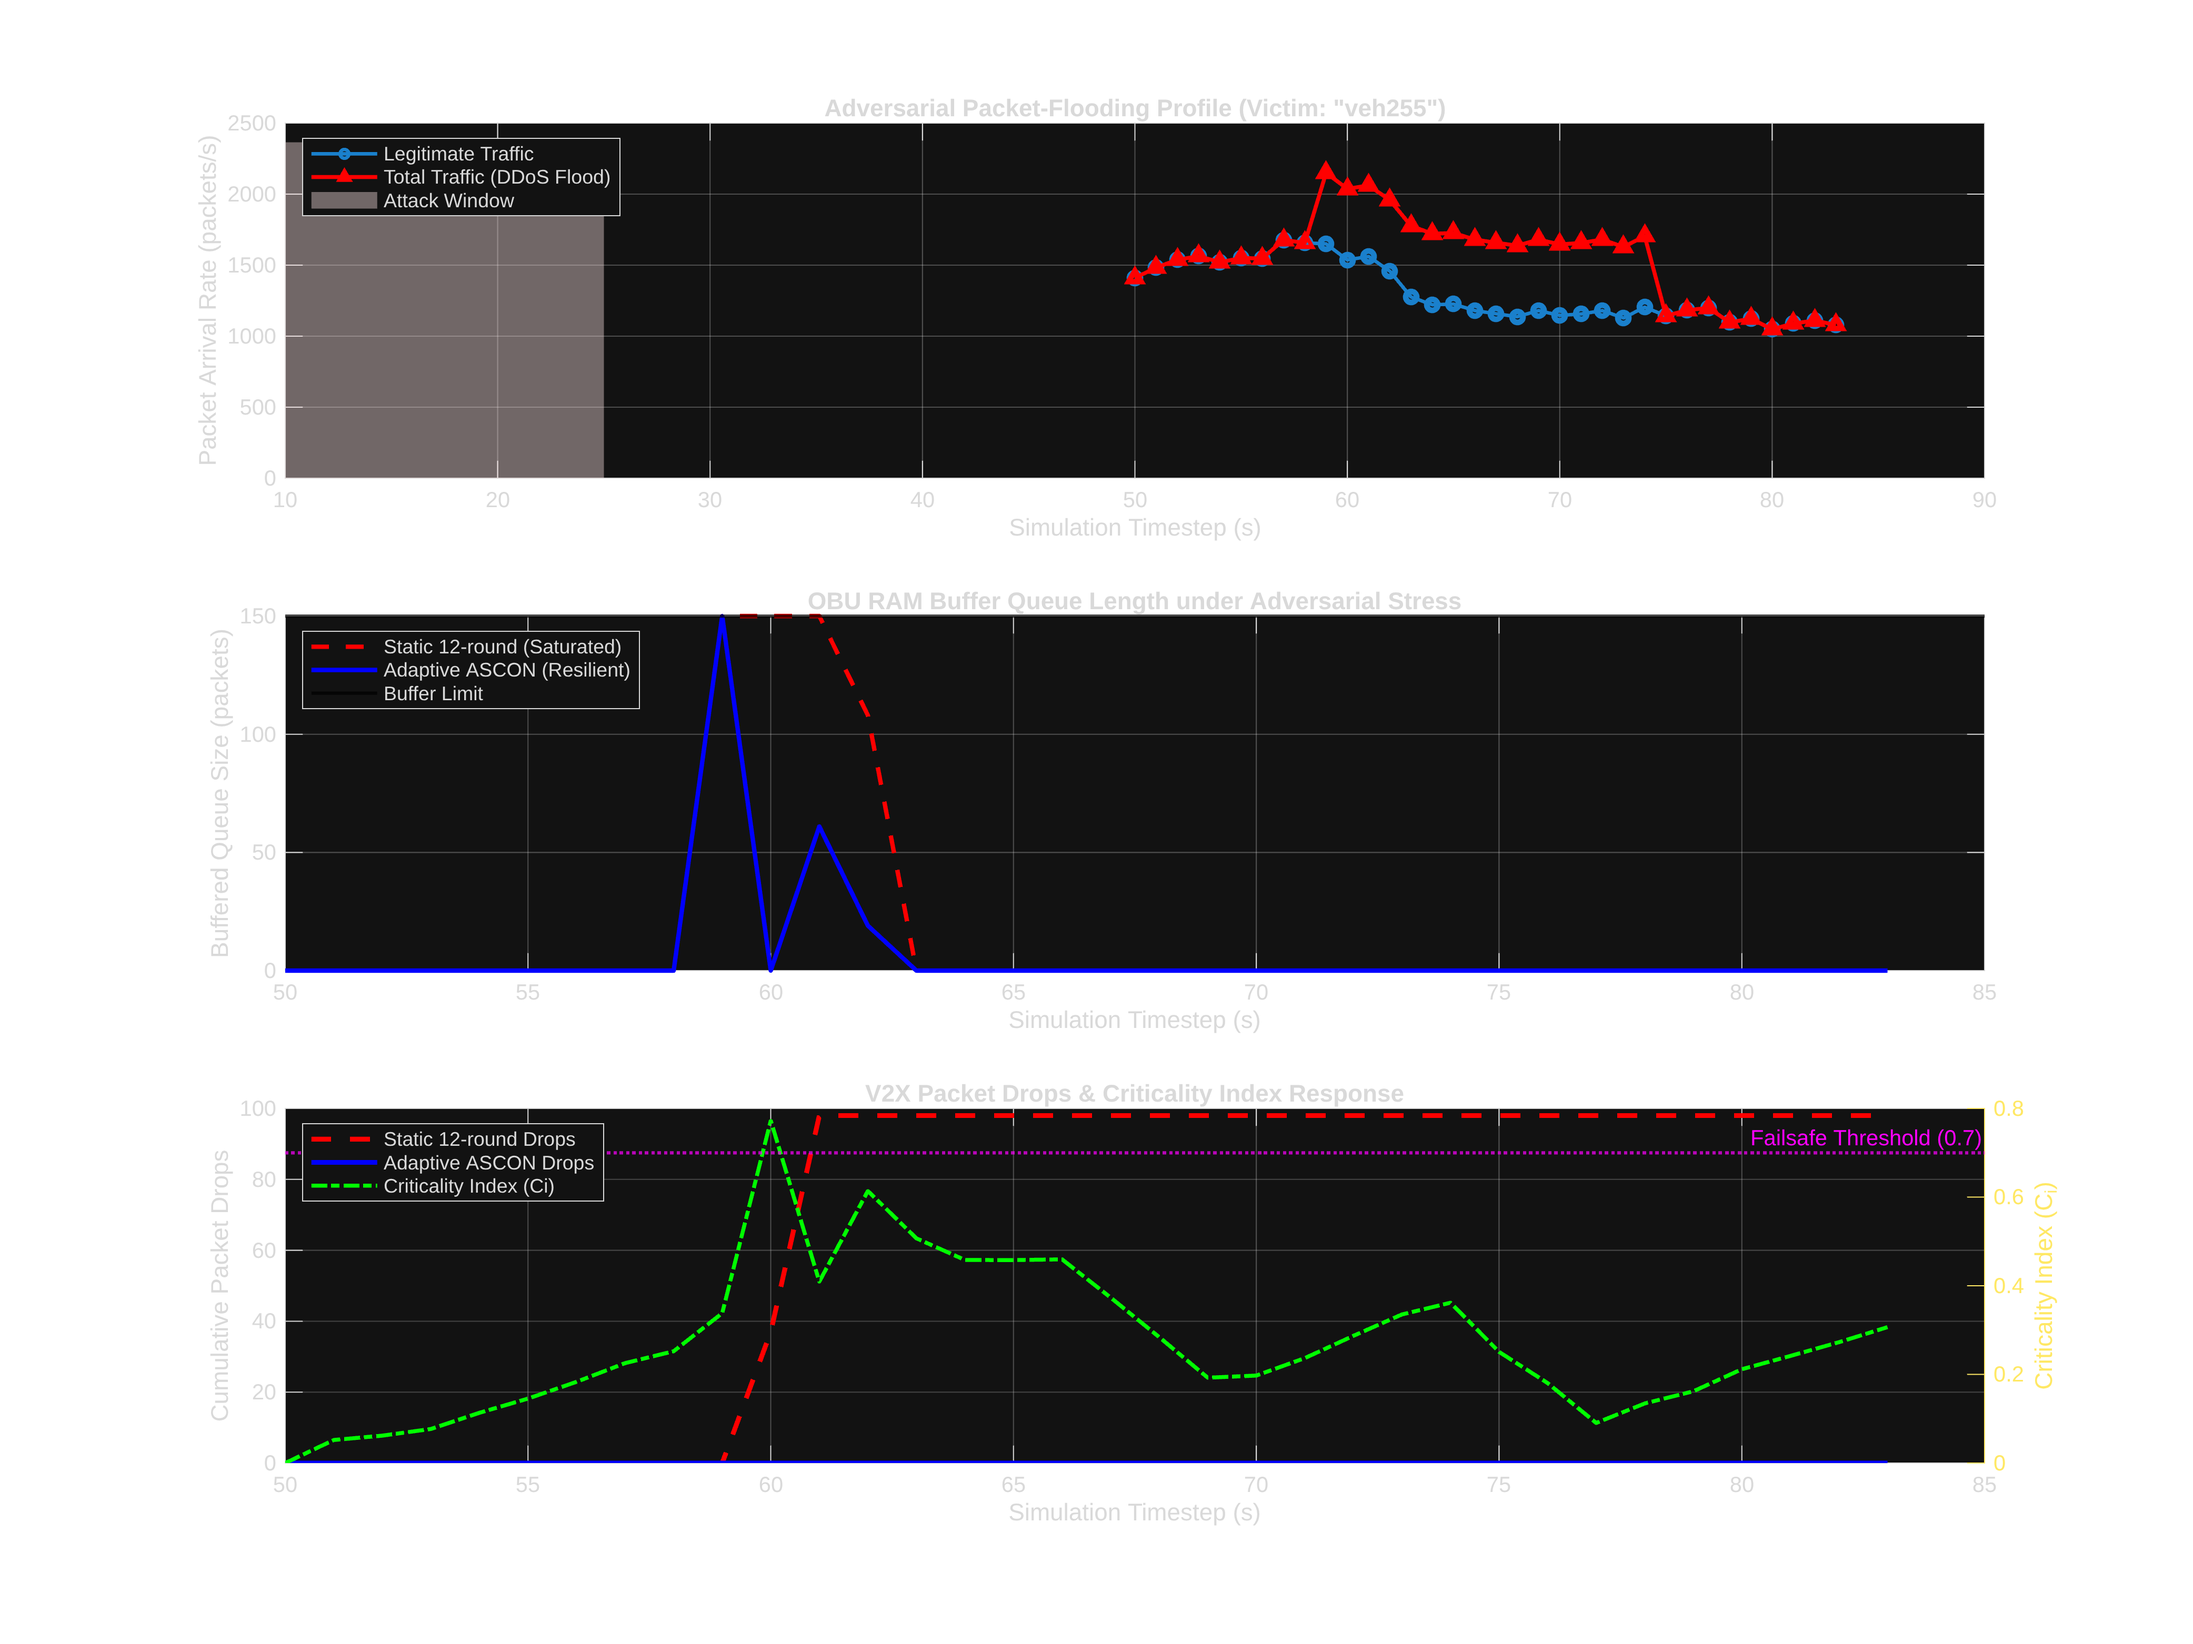
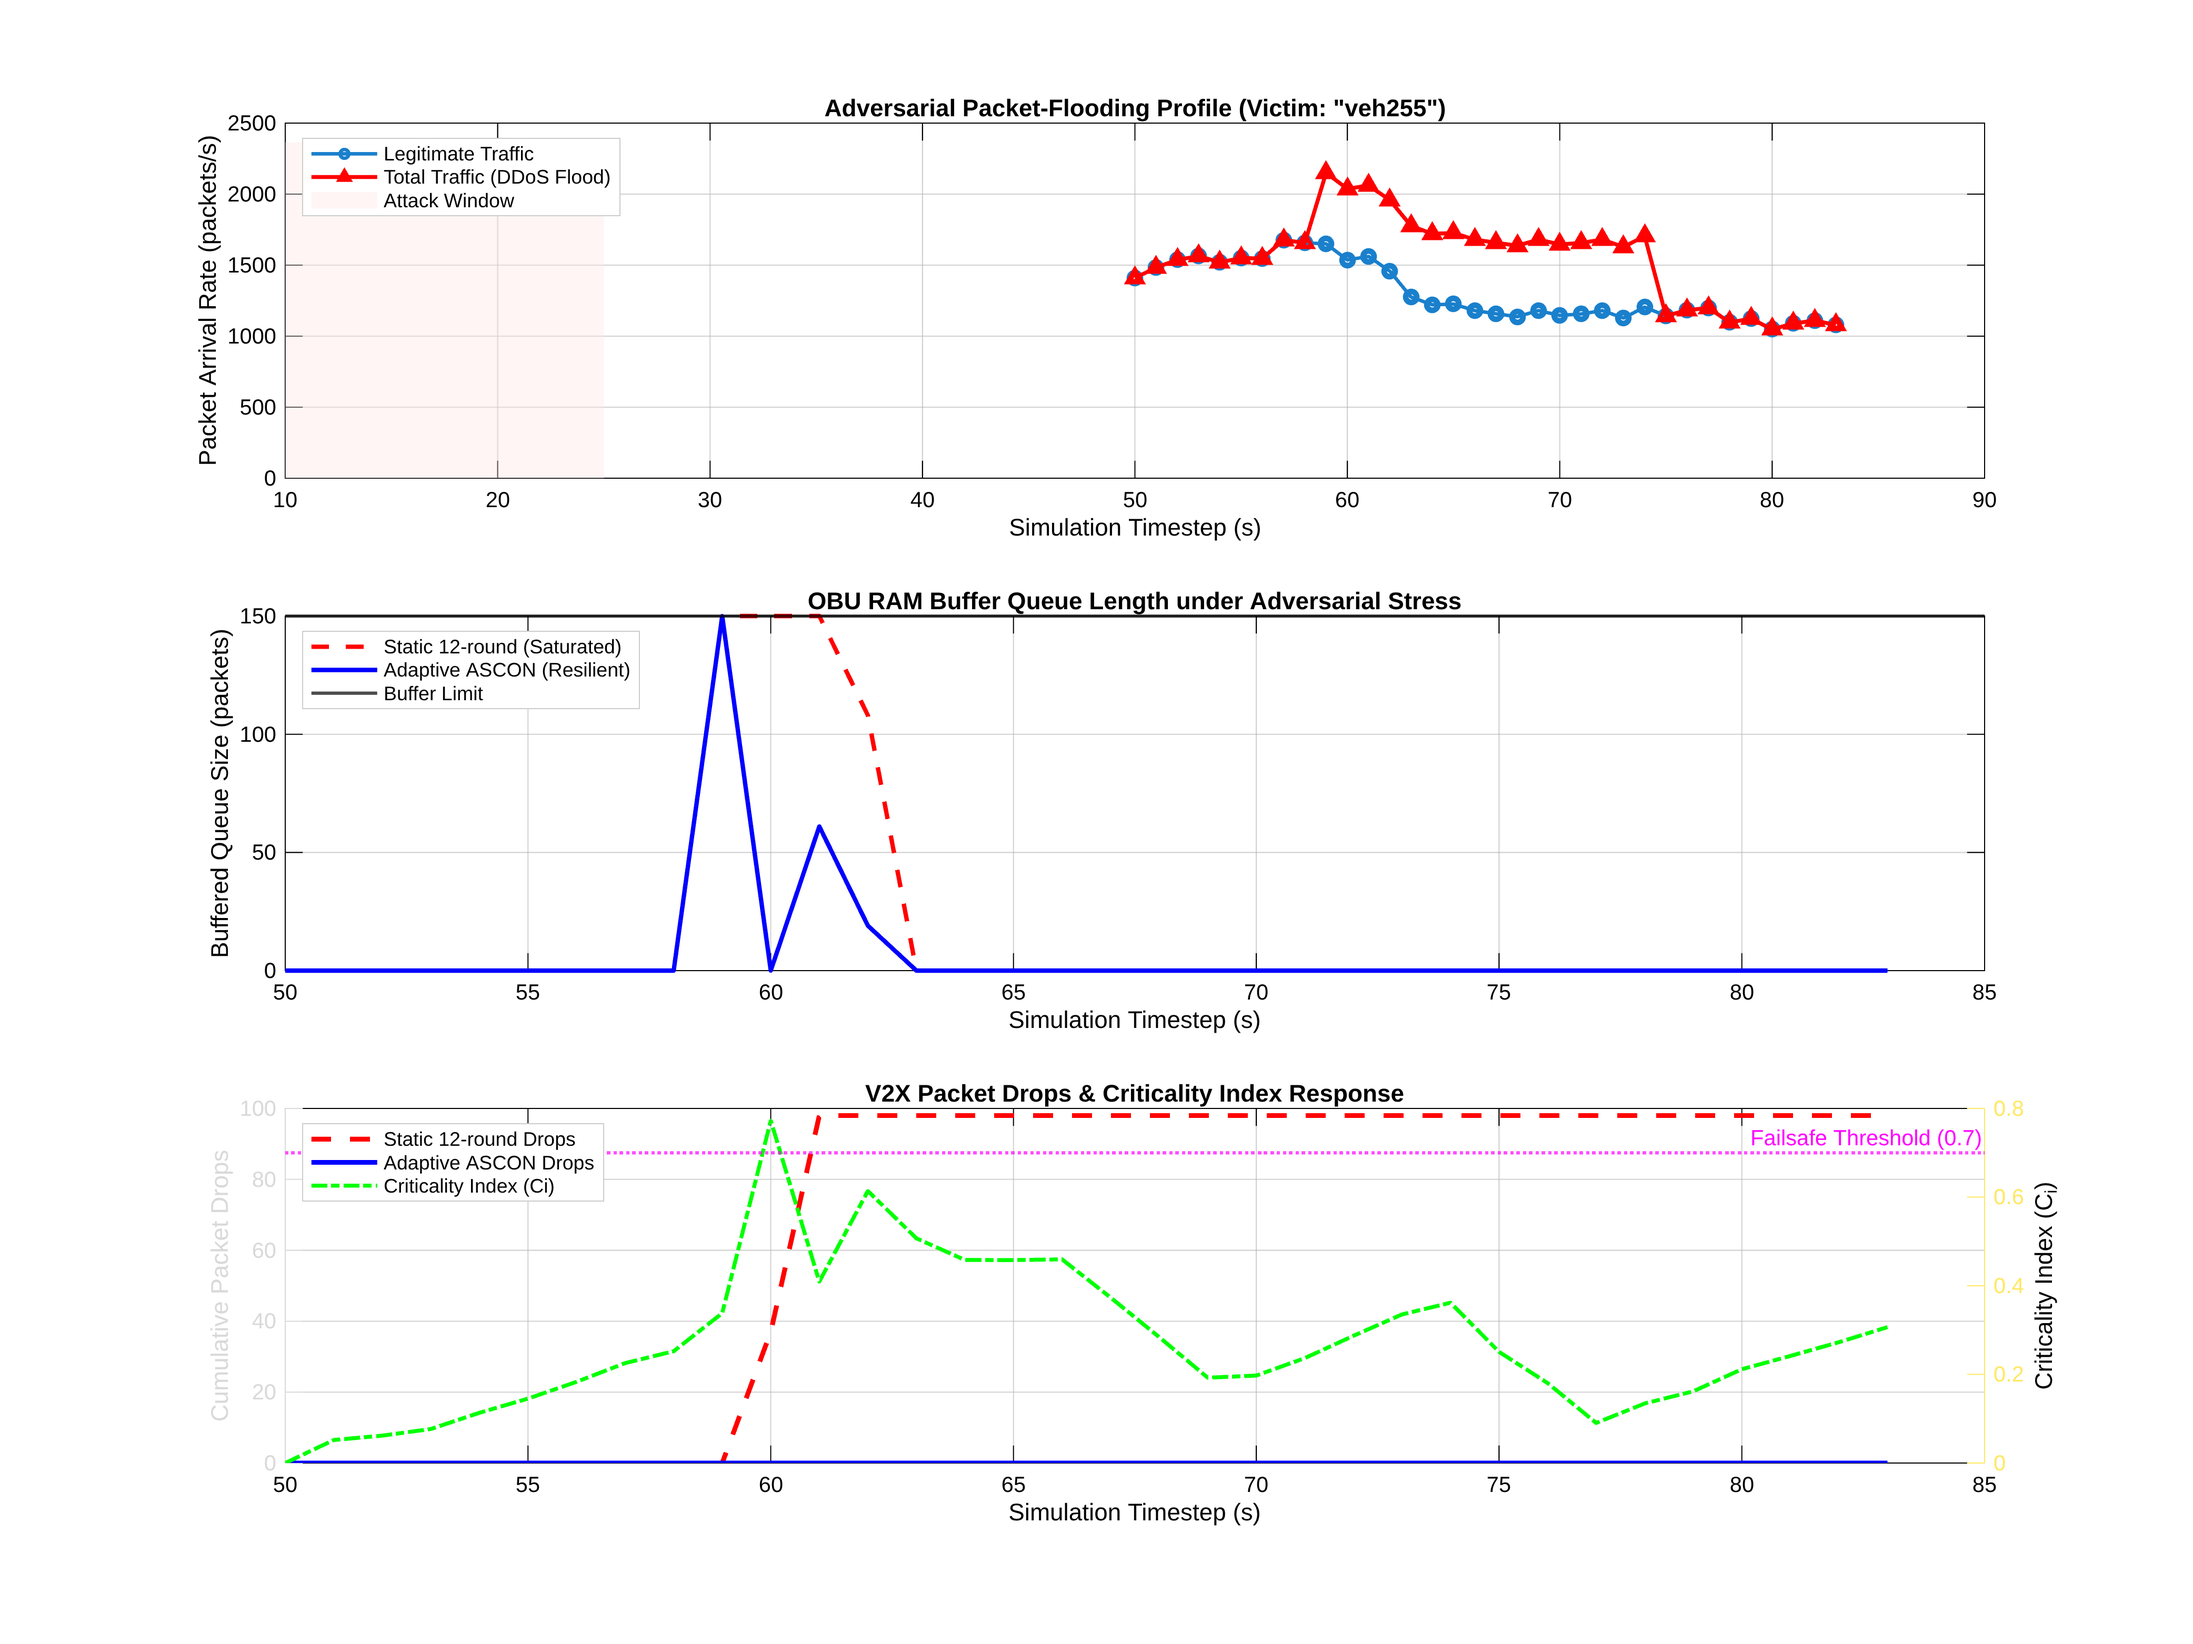
style: enforce solid white background on all axes and legends, using dark high-contrast fonts

diff --git a/scripts/simulate_queue_demo.m b/scripts/simulate_queue_demo.m
@@ -173,6 +173,7 @@ if ~exist(docs_dir, 'dir')
     mkdir(docs_dir);
 end
 fig_path = fullfile(docs_dir, 'obu_queue_comparison.png');
+apply_white_theme(fig);
 print(fig, fig_path, '-dpng', '-r300');
 fprintf('\nComparative visualization plot saved successfully to:\n%s\n', fig_path);
 
@@ -180,6 +181,55 @@ fprintf('\nComparative visualization plot saved successfully to:\n%s\n', fig_pat
 close(fig);
 
 % --- Helper Functions ---
+function apply_white_theme(fig)
+    set(fig, 'Color', 'w');
+    set(fig, 'InvertHardcopy', 'off');
+    
+    % Find all axes objects
+    ax_handles = findall(fig, 'type', 'axes');
+    for i = 1:length(ax_handles)
+        ax = ax_handles(i);
+        set(ax, 'Color', 'w');
+        set(ax, 'XColor', 'k');
+        
+        % Check YAxis color properties for yyaxis
+        if isprop(ax, 'YAxis') && length(ax.YAxis) >= 2
+            for y_idx = 1:length(ax.YAxis)
+                % Ensure colors have visible contrast on white background
+                if isequal(ax.YAxis(y_idx).Color, [1, 1, 1]) || sum(ax.YAxis(y_idx).Color) > 2.7
+                    ax.YAxis(y_idx).Color = 'k';
+                end
+            end
+        else
+            set(ax, 'YColor', 'k');
+        end
+        
+        % Force labels and titles to black
+        if ~isempty(ax.Title)
+            ax.Title.Color = 'k';
+        end
+        if ~isempty(ax.XLabel)
+            ax.XLabel.Color = 'k';
+        end
+        if ~isempty(ax.YLabel)
+            ax.YLabel.Color = 'k';
+        end
+        
+        % Force grid color to light grey
+        set(ax, 'GridColor', [0.7, 0.7, 0.7]);
+        set(ax, 'GridAlpha', 0.6);
+    end
+    
+    % Find all legend objects
+    leg_handles = findall(fig, 'type', 'legend');
+    for i = 1:length(leg_handles)
+        leg = leg_handles(i);
+        set(leg, 'Color', 'w');
+        set(leg, 'TextColor', 'k');
+        set(leg, 'EdgeColor', [0.8, 0.8, 0.8]);
+    end
+end
+
 function k = poisson_rnd(lambda)
     % POISSON_RND Generates Poisson random variable without Statistics Toolbox.
     if lambda <= 0

diff --git a/scripts/run_final_benchmark.m b/scripts/run_final_benchmark.m
@@ -214,12 +214,62 @@ if ~exist(docs_dir, 'dir')
     mkdir(docs_dir);
 end
 fig_path = fullfile(docs_dir, 'final_performance_benchmark.png');
+apply_white_theme(fig);
 print(fig, fig_path, '-dpng', '-r300');
 fprintf('\nMaster benchmark visualization plot saved successfully to:\n%s\n', fig_path);
 
 close(fig);
 
 % --- Helper Functions ---
+function apply_white_theme(fig)
+    set(fig, 'Color', 'w');
+    set(fig, 'InvertHardcopy', 'off');
+    
+    % Find all axes objects
+    ax_handles = findall(fig, 'type', 'axes');
+    for i = 1:length(ax_handles)
+        ax = ax_handles(i);
+        set(ax, 'Color', 'w');
+        set(ax, 'XColor', 'k');
+        
+        % Check YAxis color properties for yyaxis
+        if isprop(ax, 'YAxis') && length(ax.YAxis) >= 2
+            for y_idx = 1:length(ax.YAxis)
+                % Ensure colors have visible contrast on white background
+                if isequal(ax.YAxis(y_idx).Color, [1, 1, 1]) || sum(ax.YAxis(y_idx).Color) > 2.7
+                    ax.YAxis(y_idx).Color = 'k';
+                end
+            end
+        else
+            set(ax, 'YColor', 'k');
+        end
+        
+        % Force labels and titles to black
+        if ~isempty(ax.Title)
+            ax.Title.Color = 'k';
+        end
+        if ~isempty(ax.XLabel)
+            ax.XLabel.Color = 'k';
+        end
+        if ~isempty(ax.YLabel)
+            ax.YLabel.Color = 'k';
+        end
+        
+        % Force grid color to light grey
+        set(ax, 'GridColor', [0.7, 0.7, 0.7]);
+        set(ax, 'GridAlpha', 0.6);
+    end
+    
+    % Find all legend objects
+    leg_handles = findall(fig, 'type', 'legend');
+    for i = 1:length(leg_handles)
+        leg = leg_handles(i);
+        set(leg, 'Color', 'w');
+        set(leg, 'TextColor', 'k');
+        set(leg, 'EdgeColor', [0.8, 0.8, 0.8]);
+    end
+end
+
 function [q, drops, processed, latencies] = run_fixed_scenario(arrivals, Q_max, T_proc)
     num_steps = length(arrivals);
     q = zeros(num_steps, 1);

diff --git a/scripts/simulate_attacker_demo.m b/scripts/simulate_attacker_demo.m
@@ -182,12 +182,62 @@ if ~exist(docs_dir, 'dir')
     mkdir(docs_dir);
 end
 fig_path = fullfile(docs_dir, 'attacker_resilience_comparison.png');
+apply_white_theme(fig);
 print(fig, fig_path, '-dpng', '-r300');
 fprintf('\nAdversarial visualization plot saved successfully to:\n%s\n', fig_path);
 
 close(fig);
 
 % --- Helper Functions ---
+function apply_white_theme(fig)
+    set(fig, 'Color', 'w');
+    set(fig, 'InvertHardcopy', 'off');
+    
+    % Find all axes objects
+    ax_handles = findall(fig, 'type', 'axes');
+    for i = 1:length(ax_handles)
+        ax = ax_handles(i);
+        set(ax, 'Color', 'w');
+        set(ax, 'XColor', 'k');
+        
+        % Check YAxis color properties for yyaxis
+        if isprop(ax, 'YAxis') && length(ax.YAxis) >= 2
+            for y_idx = 1:length(ax.YAxis)
+                % Ensure colors have visible contrast on white background
+                if isequal(ax.YAxis(y_idx).Color, [1, 1, 1]) || sum(ax.YAxis(y_idx).Color) > 2.7
+                    ax.YAxis(y_idx).Color = 'k';
+                end
+            end
+        else
+            set(ax, 'YColor', 'k');
+        end
+        
+        % Force labels and titles to black
+        if ~isempty(ax.Title)
+            ax.Title.Color = 'k';
+        end
+        if ~isempty(ax.XLabel)
+            ax.XLabel.Color = 'k';
+        end
+        if ~isempty(ax.YLabel)
+            ax.YLabel.Color = 'k';
+        end
+        
+        % Force grid color to light grey
+        set(ax, 'GridColor', [0.7, 0.7, 0.7]);
+        set(ax, 'GridAlpha', 0.6);
+    end
+    
+    % Find all legend objects
+    leg_handles = findall(fig, 'type', 'legend');
+    for i = 1:length(leg_handles)
+        leg = leg_handles(i);
+        set(leg, 'Color', 'w');
+        set(leg, 'TextColor', 'k');
+        set(leg, 'EdgeColor', [0.8, 0.8, 0.8]);
+    end
+end
+
 function k = poisson_rnd(lambda)
     if lambda <= 0
         k = 0;
